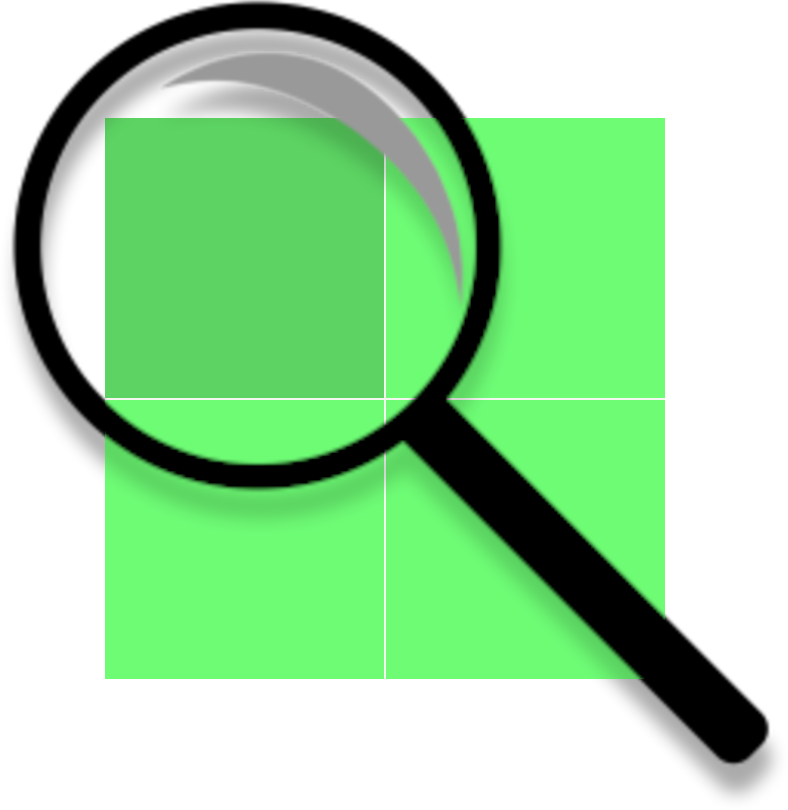
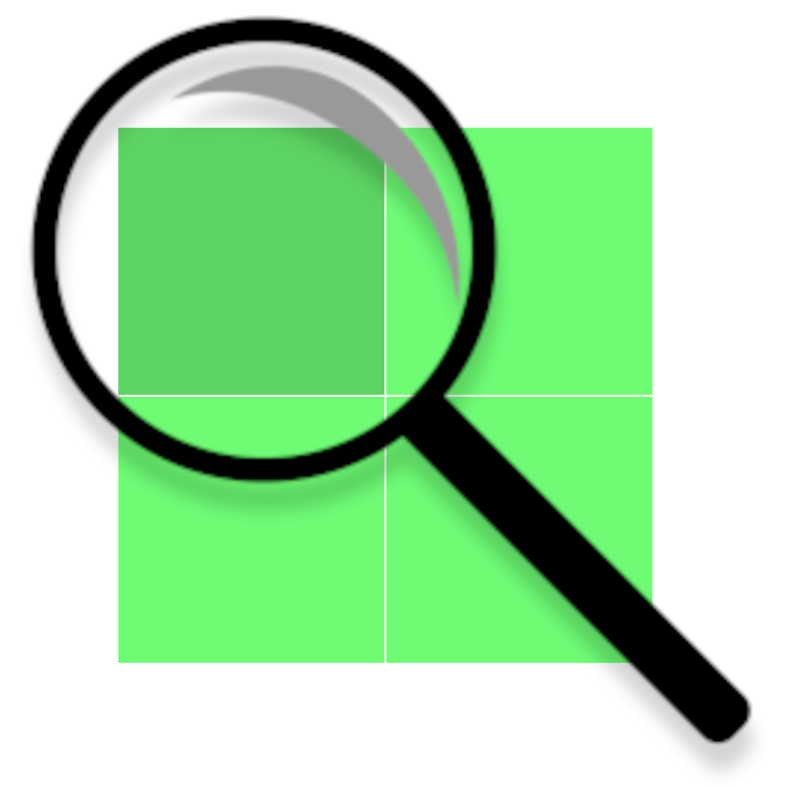
added a blink when you lose so you can see what you missed

Changed region(s): [[0.0, 0.0, 1.0, 1.0], [0.8528, 0.8832, 0.8832, 0.9137], [0.8223, 0.8528, 0.8528, 0.8832]]

diff --git a/Game.jsx b/Game.jsx
@@ -93,23 +93,40 @@ const Game = ({ onGameOver }) => {
 		return [0, 0];
 	}
 
+	let flashing = true;
+	const flash = () => {
+		if (flashing) {
+			flashing = !flashing;
+			var newSquares = generateSquaresArray(level, differentX, differentY, color, color);
+			setSquares(newSquares);
+		} else {
+			flashing = !flashing;
+			var newSquares = generateSquaresArray(level, differentX, differentY, color, diffColor);
+			setSquares(newSquares);
+		}
+	}
+
 	function handlePress(square) {
 		if (square.rowNum == differentX && square.colNum == differentY) {
-			console.log("CORRECT!");
+			//console.log("CORRECT!");
 			generateNewBoard(true);
 		} else {
-			console.log("WRONG!");
+			//console.log("WRONG!");
 			Vibration.vibrate(400, false);
 			const newLives = lives - 1;
 			setLives(newLives);
 			if (newLives <= 0) {
-				console.log("GAME OVER!");
+				const id = setInterval(flash, 250);
+				//console.log("GAME OVER!");
 				if (score > parseInt(highScore)) {
 					setHighScore(score.toString());
 					storeData(score.toString());
 					highScoreSet = false;
 				}
-				setGameOver(true);
+				setTimeout(() => {
+					clearInterval(id);
+					setGameOver(true);
+				}, 2000);
 			} else {
 				generateNewBoard(false);
 			}
@@ -169,9 +186,6 @@ const Game = ({ onGameOver }) => {
 		setColorLevel(newColorLevel);
 		setSquares(newSquares);
 	}
-
-
-
 
 	const viewRef = useRef();
 

diff --git a/App.jsx b/App.jsx
@@ -13,6 +13,7 @@ import ThemeContext from "./ThemeContext";
 import SettingsContext from "./SettingsContext";
 
 import Settings from "./Settings";
+import { Appearance } from "react-native-web";
 
 const Stack = createNativeStackNavigator();
 
@@ -31,11 +32,20 @@ function HowToPlayScreen({ route, navigation }) {
 function SettingsScreen({ route, navigation }) {
 	return <Settings back={() => navigation.goBack()} />;
 }
-
+let colorSchemeSet = false;
 export default function App() {
 	const [theme, setTheme] = useState("light");
 	function toggleTheme() {
 		setTheme(theme === "dark" ? "light" : "dark");
+	}
+	const colorScheme = Appearance.getColorScheme();
+	if (colorScheme === "dark" && !colorSchemeSet) {
+		colorSchemeSet = true;
+		setTheme("dark");
+	}
+	else if (!colorSchemeSet) {
+		colorSchemeSet = true;
+		setTheme("light");
 	}
 
 	const [settings, setSettings] = useState([

diff --git a/MainMenu.jsx b/MainMenu.jsx
@@ -44,7 +44,7 @@ const MainMenu = ({ onPlay, onSettings, onHowToPlay }) => {
                 <View style={{ flex: 1, alignItems: "center", justifyContent: "center" }}>
                     <Image
                         style={styles.tinyLogo}
-                        source={require("./assets/appIcon.png")}
+                        source={require("./assets/logo.png")}
                     />
                 </View>
                 <View style={{ flex: 1, alignItems: "center", justifyContent: "flex-start" }}>
